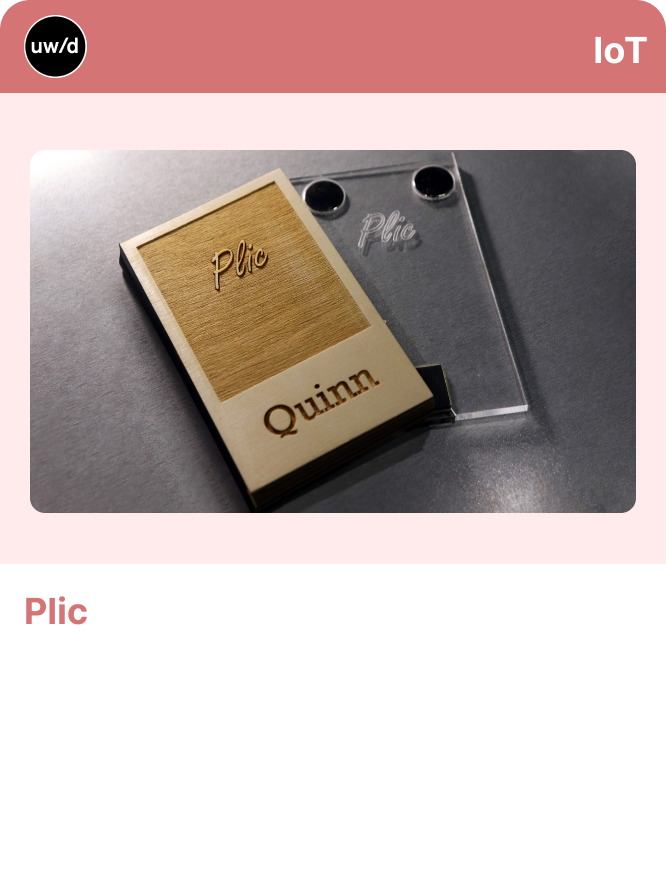
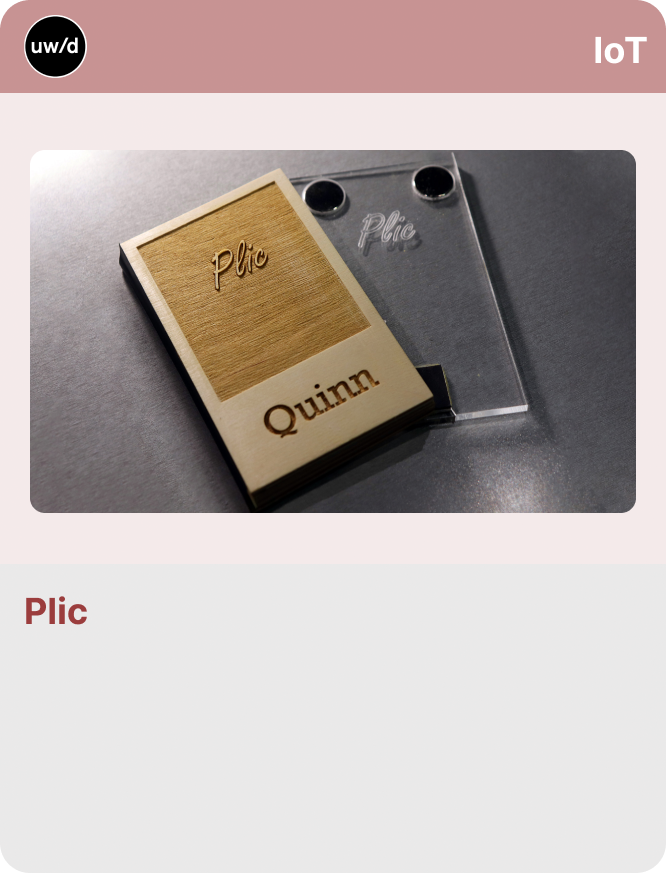
New Card Color

Changed region(s): [[0.0, 0.0, 1.0, 0.1237], [0.03, 0.6804, 0.1502, 0.7113]]

diff --git a/css/style.css b/css/style.css
@@ -332,6 +332,14 @@ p {
 .dealt-card {
   opacity: 0;
   transition: opacity 0.5s ease-in-out, transform 0.5s ease-out;
+  background: linear-gradient(
+    120deg,
+    rgba(255, 255, 255, .25),
+    rgba(255, 255, 255, .75), 70%, 
+    rgba(255, 255, 255, .25)
+  );  border: 1px solid rgba(255, 255, 255, .25);
+  box-shadow: 0 0 10px 1px rgba(0, 0, 0, .25);
+  backdrop-filter: blur(15px);
 }
 
 .dealt-card.in-slot {
@@ -419,7 +427,6 @@ p {
   left: 0;
   right: 0;
   bottom: 0;
-  background-color: #fff;
   z-index: -1;
 }
 
@@ -517,6 +524,7 @@ p {
   background-size: cover;
   background-position: center;
   margin-bottom: 20px;
+  border-radius: 5px;
 }
 
 .portfolio-cards.enlarged .hero-image {
@@ -561,6 +569,7 @@ p {
   left: 50%;
   margin-top: 150px;
   transform: translate(-55%, -30%);
+  
 }
 .contact-icons {
   display: flex;
@@ -594,12 +603,26 @@ p {
   flex-direction: column;
   justify-content: center;
   align-items: center;
-  background-color: #ffffff;
+  background: linear-gradient(
+    120deg,
+    rgba(255, 255, 255, .25),
+    rgba(255, 255, 255, .75), 70%, 
+    rgba(255, 255, 255, .25)
+  );  border: 1px solid rgba(255, 255, 255, .25);
+  box-shadow: 0 0 10px 1px rgba(0, 0, 0, .25);
+  backdrop-filter: blur(15px);
 }
 
 .card-back {
   transform: rotateY(180deg);
-  background-color: #f8f9fa;
+  background: linear-gradient(
+    120deg,
+    rgba(255, 255, 255, .25),
+    rgba(255, 255, 255, .75), 70%, 
+    rgba(255, 255, 255, .25)
+  );  border: 1px solid rgba(255, 255, 255, .25);
+  box-shadow: 0 0 10px 1px rgba(0, 0, 0, .25);
+  backdrop-filter: blur(15px);
   justify-content: space-between;
 }
 
